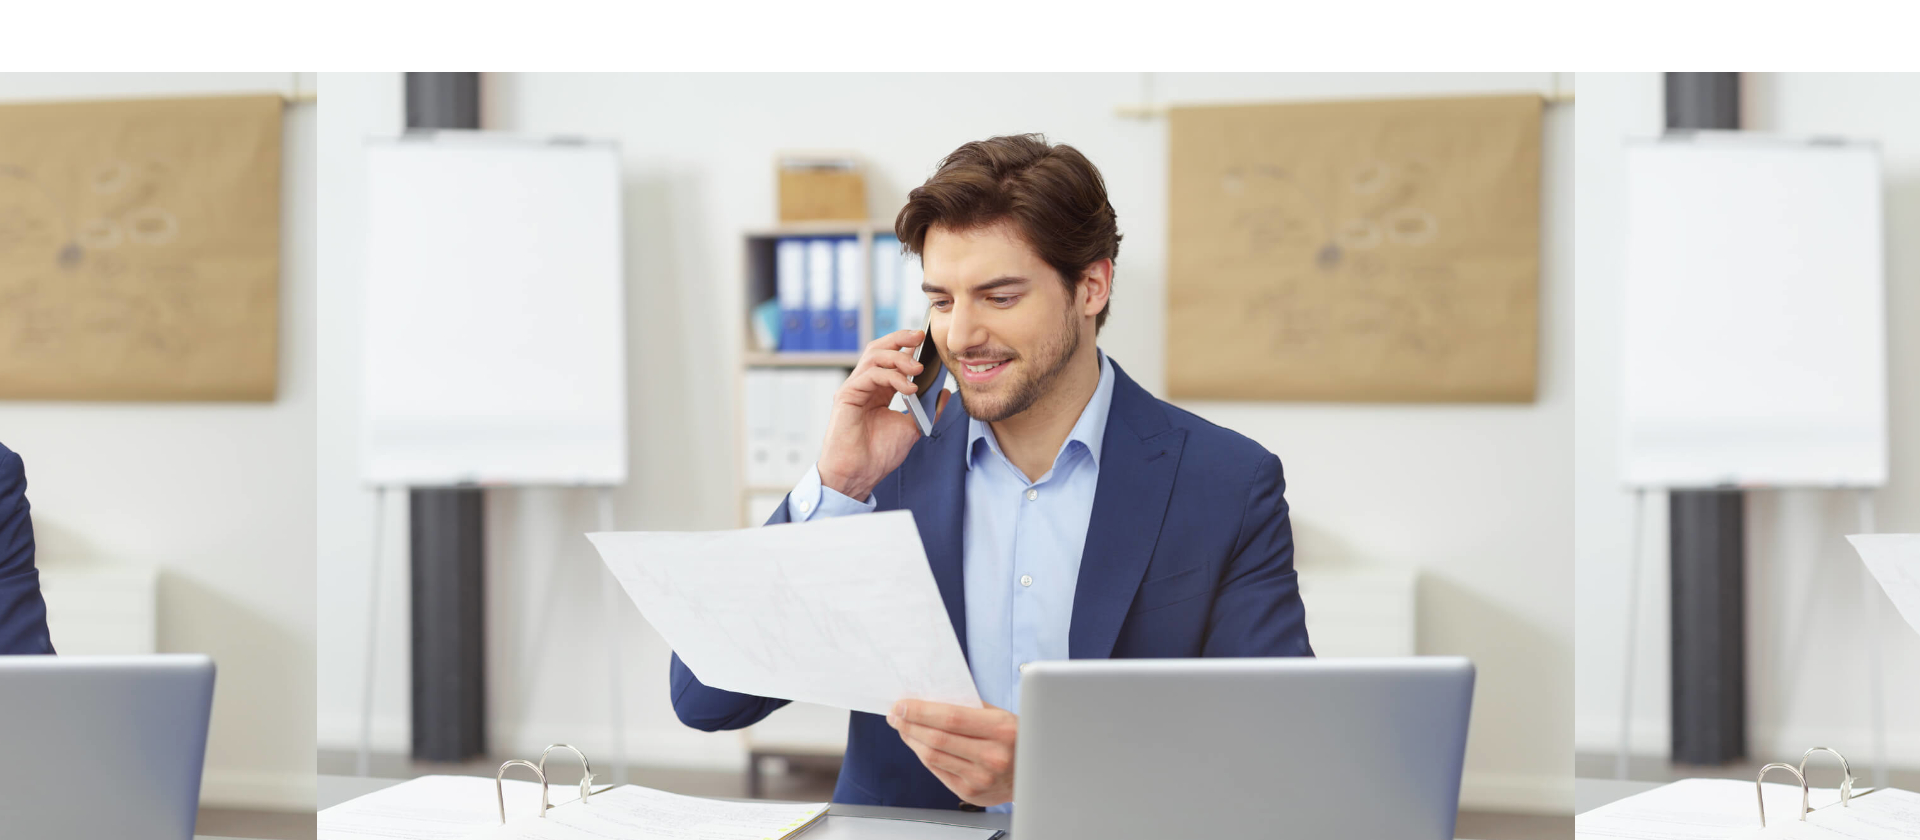
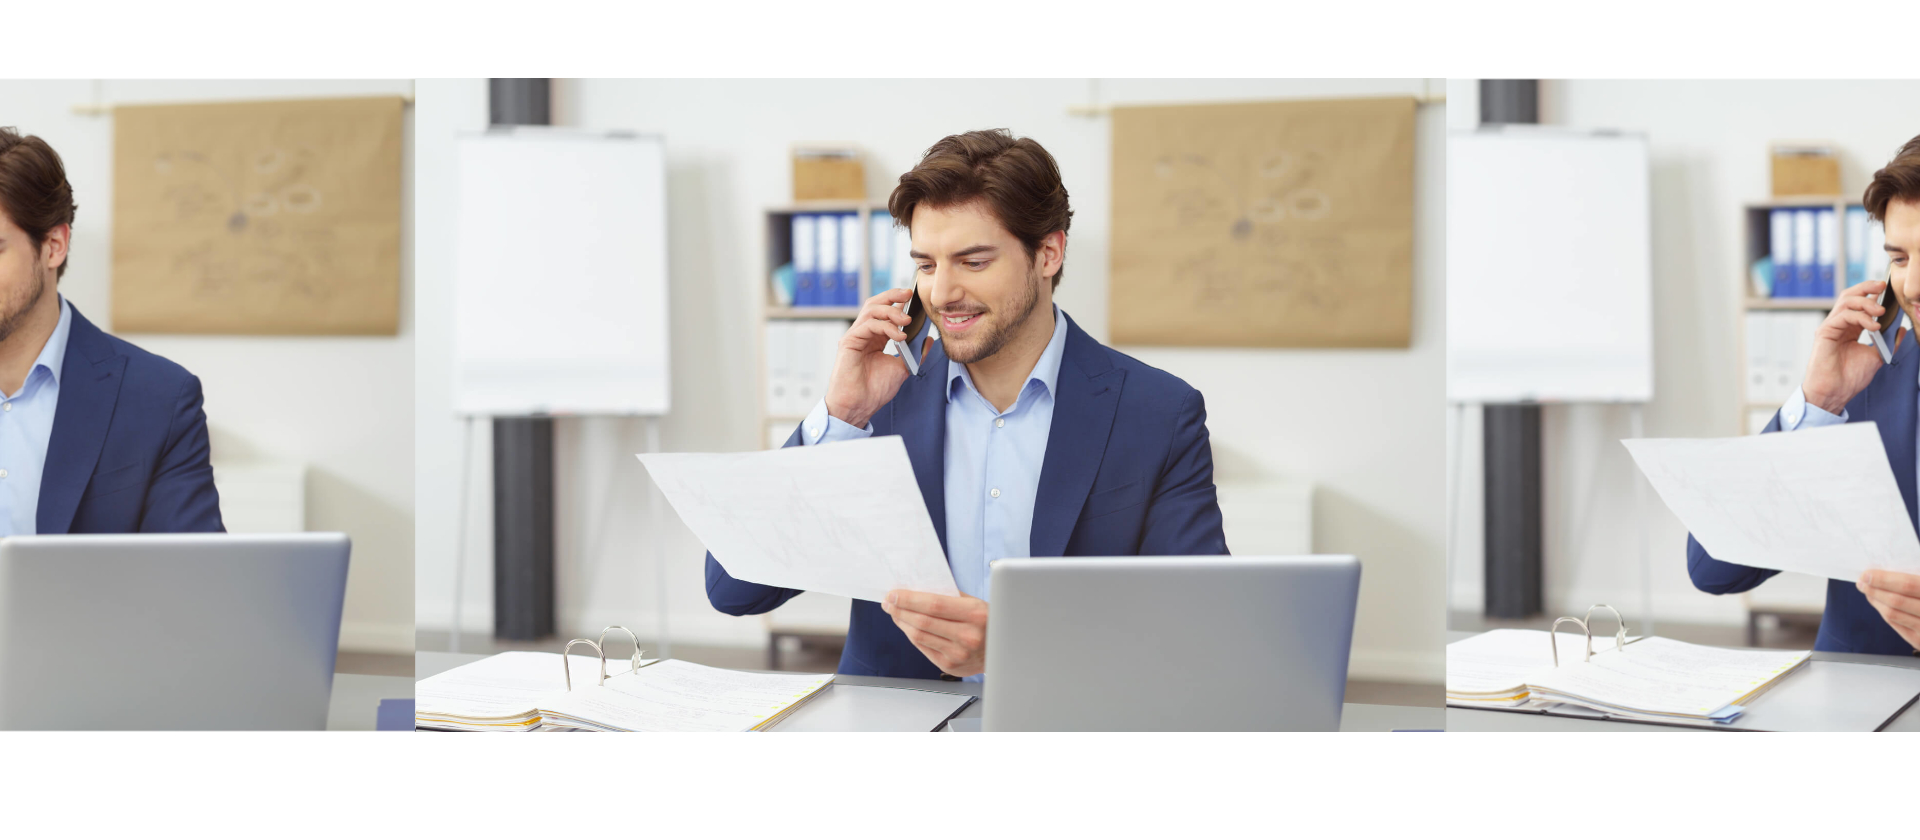
image mod

diff --git a/assets/css/style.css b/assets/css/style.css
@@ -457,7 +457,7 @@ color: #ffffff;
 --------------------------------------------------------------*/
 #hero {
   width: 100%;
-  height:700px;
+  height:680px;
   background: url("../img/slider-pages/wide.jpg") top center;
   position: relative;
   padding: 0;
